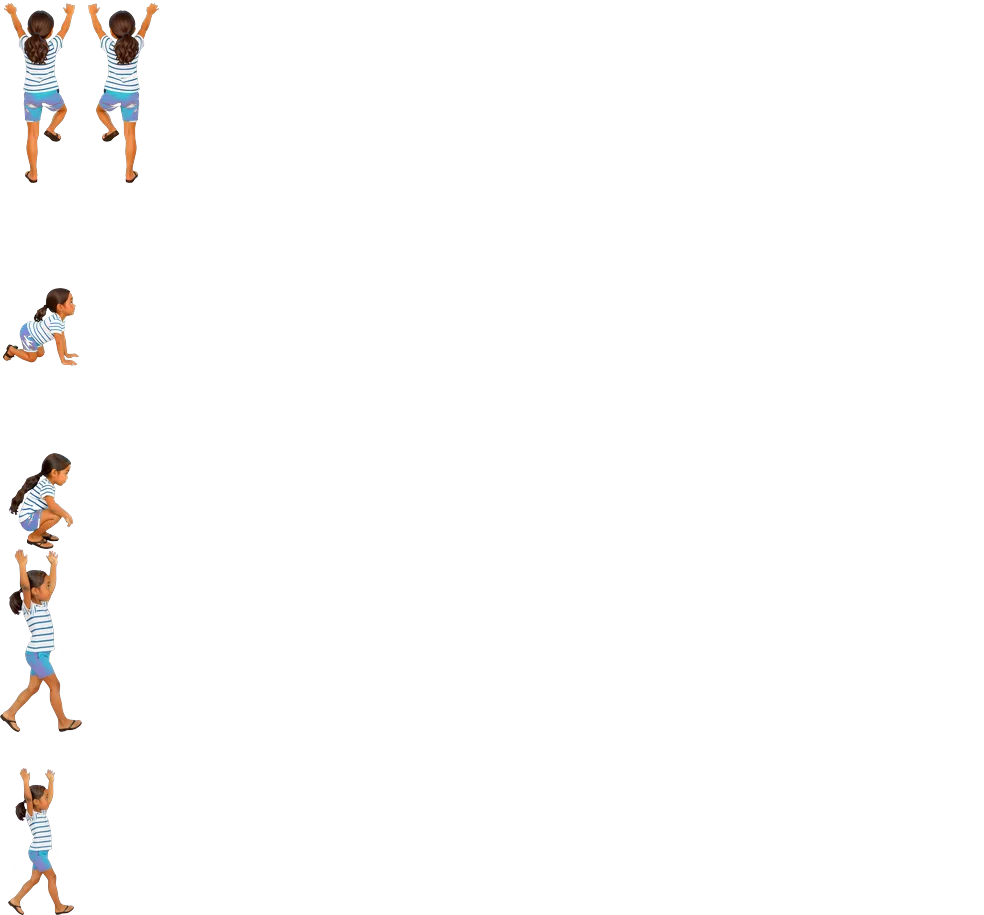
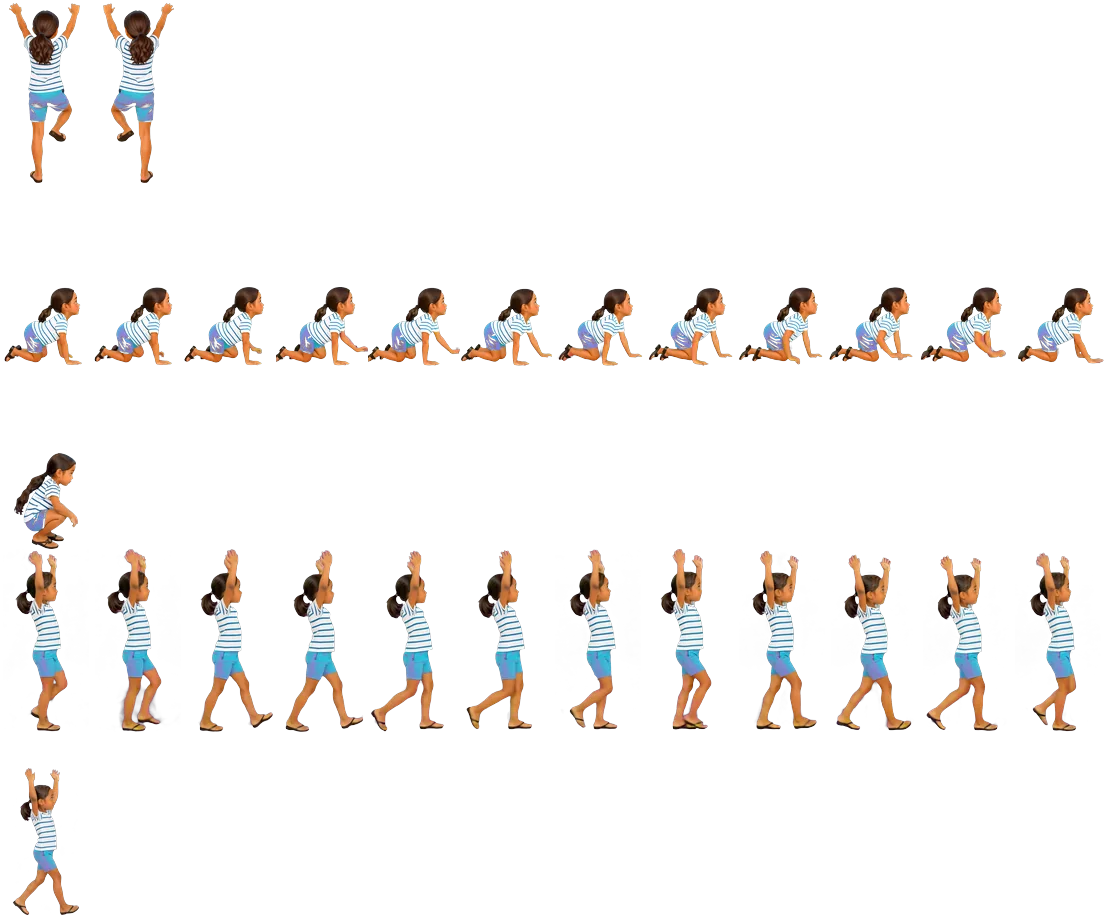
Jasmin Stage 2 : ramper et porter animés dans toutes les tenues
Claude-Session: https://claude.ai/code/session_01Lr4SkBJnq1yRYGqqaX6PKr

diff --git a/jeux/stage2/heros/heros.js b/jeux/stage2/heros/heros.js
@@ -300,56 +300,56 @@ window.S2_GESTES = {
 "v": 2
 },
 "salma-tablier": {
-"cw": 87,
-"ch": 183,
+"cw": 93,
+"ch": 185,
 "ref": 150,
 "n": [
 2,
+12,
 1,
-1,
-1,
+12,
 1
 ],
-"v": 2
+"v": 3
 },
 "salma-pyjama": {
-"cw": 84,
-"ch": 183,
+"cw": 88,
+"ch": 184,
 "ref": 150,
 "n": [
 2,
+12,
 1,
-1,
-1,
+12,
 1
 ],
-"v": 2
+"v": 3
 },
 "salma-fete": {
-"cw": 81,
-"ch": 183,
-"ref": 150,
-"n": [
-2,
-1,
-1,
-1,
-1
-],
-"v": 2
-},
-"amine-tablier": {
 "cw": 85,
 "ch": 183,
 "ref": 150,
 "n": [
 2,
+12,
 1,
-1,
-1,
+12,
 1
 ],
-"v": 2
+"v": 3
+},
+"amine-tablier": {
+"cw": 87,
+"ch": 184,
+"ref": 150,
+"n": [
+2,
+12,
+1,
+12,
+1
+],
+"v": 3
 },
 "amine-pyjama": {
 "cw": 93,
@@ -357,90 +357,90 @@ window.S2_GESTES = {
 "ref": 150,
 "n": [
 2,
+12,
 1,
-1,
-1,
+12,
 1
 ],
-"v": 2
+"v": 3
 },
 "amine-fete": {
-"cw": 83,
-"ch": 183,
+"cw": 87,
+"ch": 184,
 "ref": 150,
 "n": [
 2,
+12,
 1,
-1,
-1,
+12,
 1
 ],
-"v": 2
+"v": 3
 },
 "essil-tablier": {
-"cw": 79,
-"ch": 183,
+"cw": 89,
+"ch": 184,
 "ref": 150,
 "n": [
 2,
+12,
 1,
-1,
-1,
+12,
 1
 ],
-"v": 2
+"v": 3
 },
 "essil-pyjama": {
-"cw": 79,
-"ch": 183,
+"cw": 88,
+"ch": 184,
 "ref": 150,
 "n": [
 2,
+12,
 1,
-1,
-1,
+12,
 1
 ],
-"v": 2
+"v": 3
 },
 "essil-fete": {
-"cw": 76,
+"cw": 91,
 "ch": 183,
 "ref": 150,
 "n": [
 2,
+12,
 1,
-1,
-1,
+12,
 1
 ],
-"v": 2
+"v": 3
 },
 "salma-plage": {
-"cw": 81,
+"cw": 89,
 "ch": 183,
 "ref": 150,
 "n": [
 2,
+12,
 1,
-1,
-1,
+12,
 1
 ],
-"v": 2
+"v": 3
 },
 "essil-plage": {
-"cw": 82,
+"cw": 92,
 "ch": 183,
 "ref": 150,
 "n": [
 2,
+12,
 1,
-1,
-1,
+12,
 1
 ],
-"v": 2
+"v": 3
 },
 "amine-plage": {
 "cw": 92,
@@ -448,11 +448,11 @@ window.S2_GESTES = {
 "ref": 150,
 "n": [
 2,
+12,
 1,
-1,
-1,
+12,
 1
 ],
-"v": 2
+"v": 3
 }
 };

diff --git a/jeux/jasmin-stage2.html b/jeux/jasmin-stage2.html
@@ -136,7 +136,7 @@ body.touch.joue #tactile{display:block}
 <script src="stage2/cartes/m8.js?v=2"></script>
 <script src="stage2/cartes/m9.js?v=2"></script>
 <script src="stage2/cartes/m10.js?v=2"></script>
-<script src="stage2/heros/heros.js?v=8"></script>
+<script src="stage2/heros/heros.js?v=9"></script>
 <script src="stage2/moteur.js?v=4"></script>
 <script>
 'use strict';

diff --git a/version.js b/version.js
@@ -1,2 +1,2 @@
 // mis à jour par docs/outils/version.sh avant chaque commit
-window.SITE_VERSION = { v:'3.176', date:'15/11/2026' };
+window.SITE_VERSION = { v:'3.177', date:'15/11/2026' };

diff --git a/docs/journal.md b/docs/journal.md
@@ -128,3 +128,4 @@ Une ligne par réalisation, la plus ancienne en premier. Ajouter une ligne à ch
 - **15/11 (nuit)** : **Jasmin · Stage 2, les 10 mondes** (demande du papa) : nouvelles commandes (↑ saute, ↓ s'accroupit, ↓ + Espace ramasse, Espace lance, rester accroupi = passage secret), **barre de vie** en haut au milieu, plus jamais coincé (vérificateur des cartes, échelles ajoutées, « Revenir à la dernière lanterne », message à la porte fermée), mondes 2 à 10 avec terrains glissants, sable, eau, tuiles qui tombent, rebonds, rochers, nuit des souterrains, trains, barques, **scooter**, **tapis volant**, 8 nouveaux ennemis et **2 boss** (Crabe géant, Scorpion d'Or) ; décors et ennemis ComfyUI ; gestes du héros (grimper, ramper, s'accroupir, porter, lancer) faits avec ComfyUI pour les 8 personnages.
 - **15/11 (midi)** : Stage 2 : Salma grimpait l'échelle de face (sa tenue « tablier » n'avait pas de gestes ComfyUI) → gestes faits pour les 4 dernières tenues (tablier, pyjama, fête, plage) d'Essil, Salma et Amine ; la tenue de plage sur fond magenta. Images fixes en ligne tout de suite, mouvements animés ensuite.
 - **15/11 (après-midi)** : **sauvegarde md du site** (`docs/sauvegardes/sauvegarde-site-2026-11-15.md`) ; **Les Écuries** (demande du papa) : nos écuries en **vraies photos ComfyUI** (25 chevaux, boxes, aire de pansage), pansage sur photo avec **brosses à acheter** (8 nouvelles dans la sellerie), **12 nouveaux chevaux** de races et robes différentes, nouvelles épreuves **course**, **hunter** et **western**, et **les galops 1 à 7** (théorie + épreuve, diplôme). Version 3.175.
+- **15/11 (après-midi)** : Stage 2 : **ramper et porter animés** (vidéos Wan 2.2) dans les tenues tablier, pyjama, fête et plage d'Essil, Salma et Amine (`gestes.py`, planches v3).
